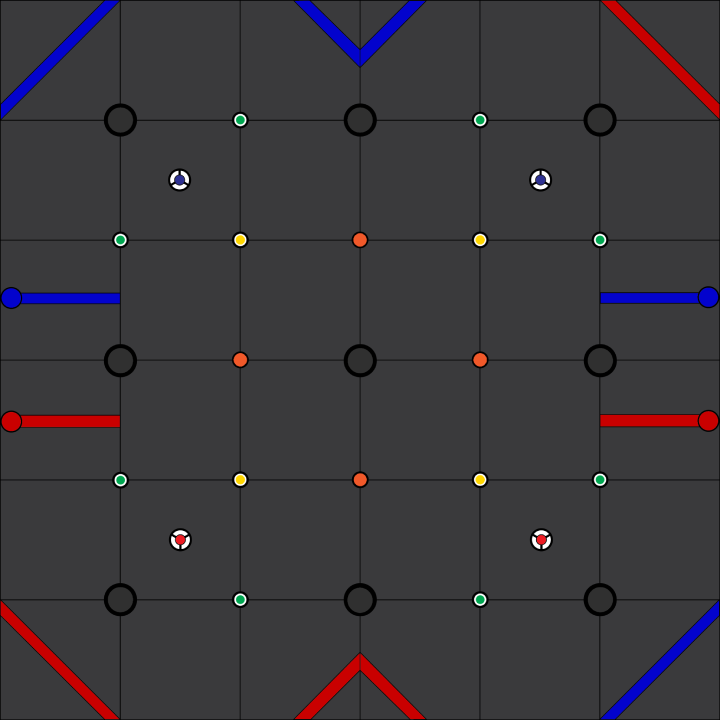
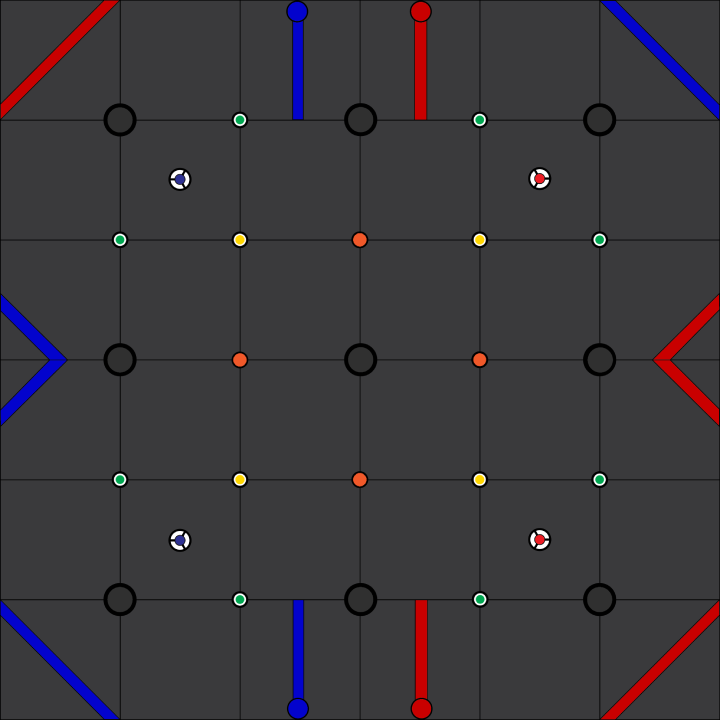
Edit field orientation

diff --git a/PathVisualizer/src/main/java/com/example/pathvisualizer/TrajectoryTwoCones.kt b/PathVisualizer/src/main/java/com/example/pathvisualizer/TrajectoryTwoCones.kt
@@ -9,7 +9,7 @@ import com.acmerobotics.roadrunner.trajectory.constraints.MecanumConstraints
 
 object TrajectoryTwoCones {
     // Remember to set these constraints to the same values as your DriveConstants.java file in the quickstart
-    private val driveConstraints = DriveConstraints(45.0, 30.0, 0.0, Math.toRadians(399.0969417327928),  Math.toRadians(60.0), 0.0)
+    private val driveConstraints = DriveConstraints(50.0, 30.0, 0.0, Math.toRadians(399.0969417327928),  Math.toRadians(60.0), 0.0)
 
     // Remember to set your track width to an estimate of your actual bot to get accurate trajectory profile duration!
     const val ROBOT_WIDTH = 16.5
@@ -21,8 +21,8 @@ object TrajectoryTwoCones {
 
 
     fun createTrajectory(): ArrayList<Trajectory> {
-        Left(2)
-//        Right(3)
+//        Left(1)
+        Right(3)
 
 
         return list

diff --git a/PathVisualizer/src/main/java/com/example/pathvisualizer/GraphicsUtil.kt b/PathVisualizer/src/main/java/com/example/pathvisualizer/GraphicsUtil.kt
@@ -97,8 +97,8 @@ object GraphicsUtil {
 
 val Vector2d.toPixel
     get() = Vector2d(
-        x * GraphicsUtil.pixelsPerInch + GraphicsUtil.halfFieldPixels,
-        -y * GraphicsUtil.pixelsPerInch + GraphicsUtil.halfFieldPixels
-//        -y * GraphicsUtil.pixelsPerInch + GraphicsUtil.halfFieldPixels,
-//        -x * GraphicsUtil.pixelsPerInch + GraphicsUtil.halfFieldPixels
+//        x * GraphicsUtil.pixelsPerInch + GraphicsUtil.halfFieldPixels,
+//        -y * GraphicsUtil.pixelsPerInch + GraphicsUtil.halfFieldPixels
+        -y * GraphicsUtil.pixelsPerInch + GraphicsUtil.halfFieldPixels,
+        -x * GraphicsUtil.pixelsPerInch + GraphicsUtil.halfFieldPixels
     )
